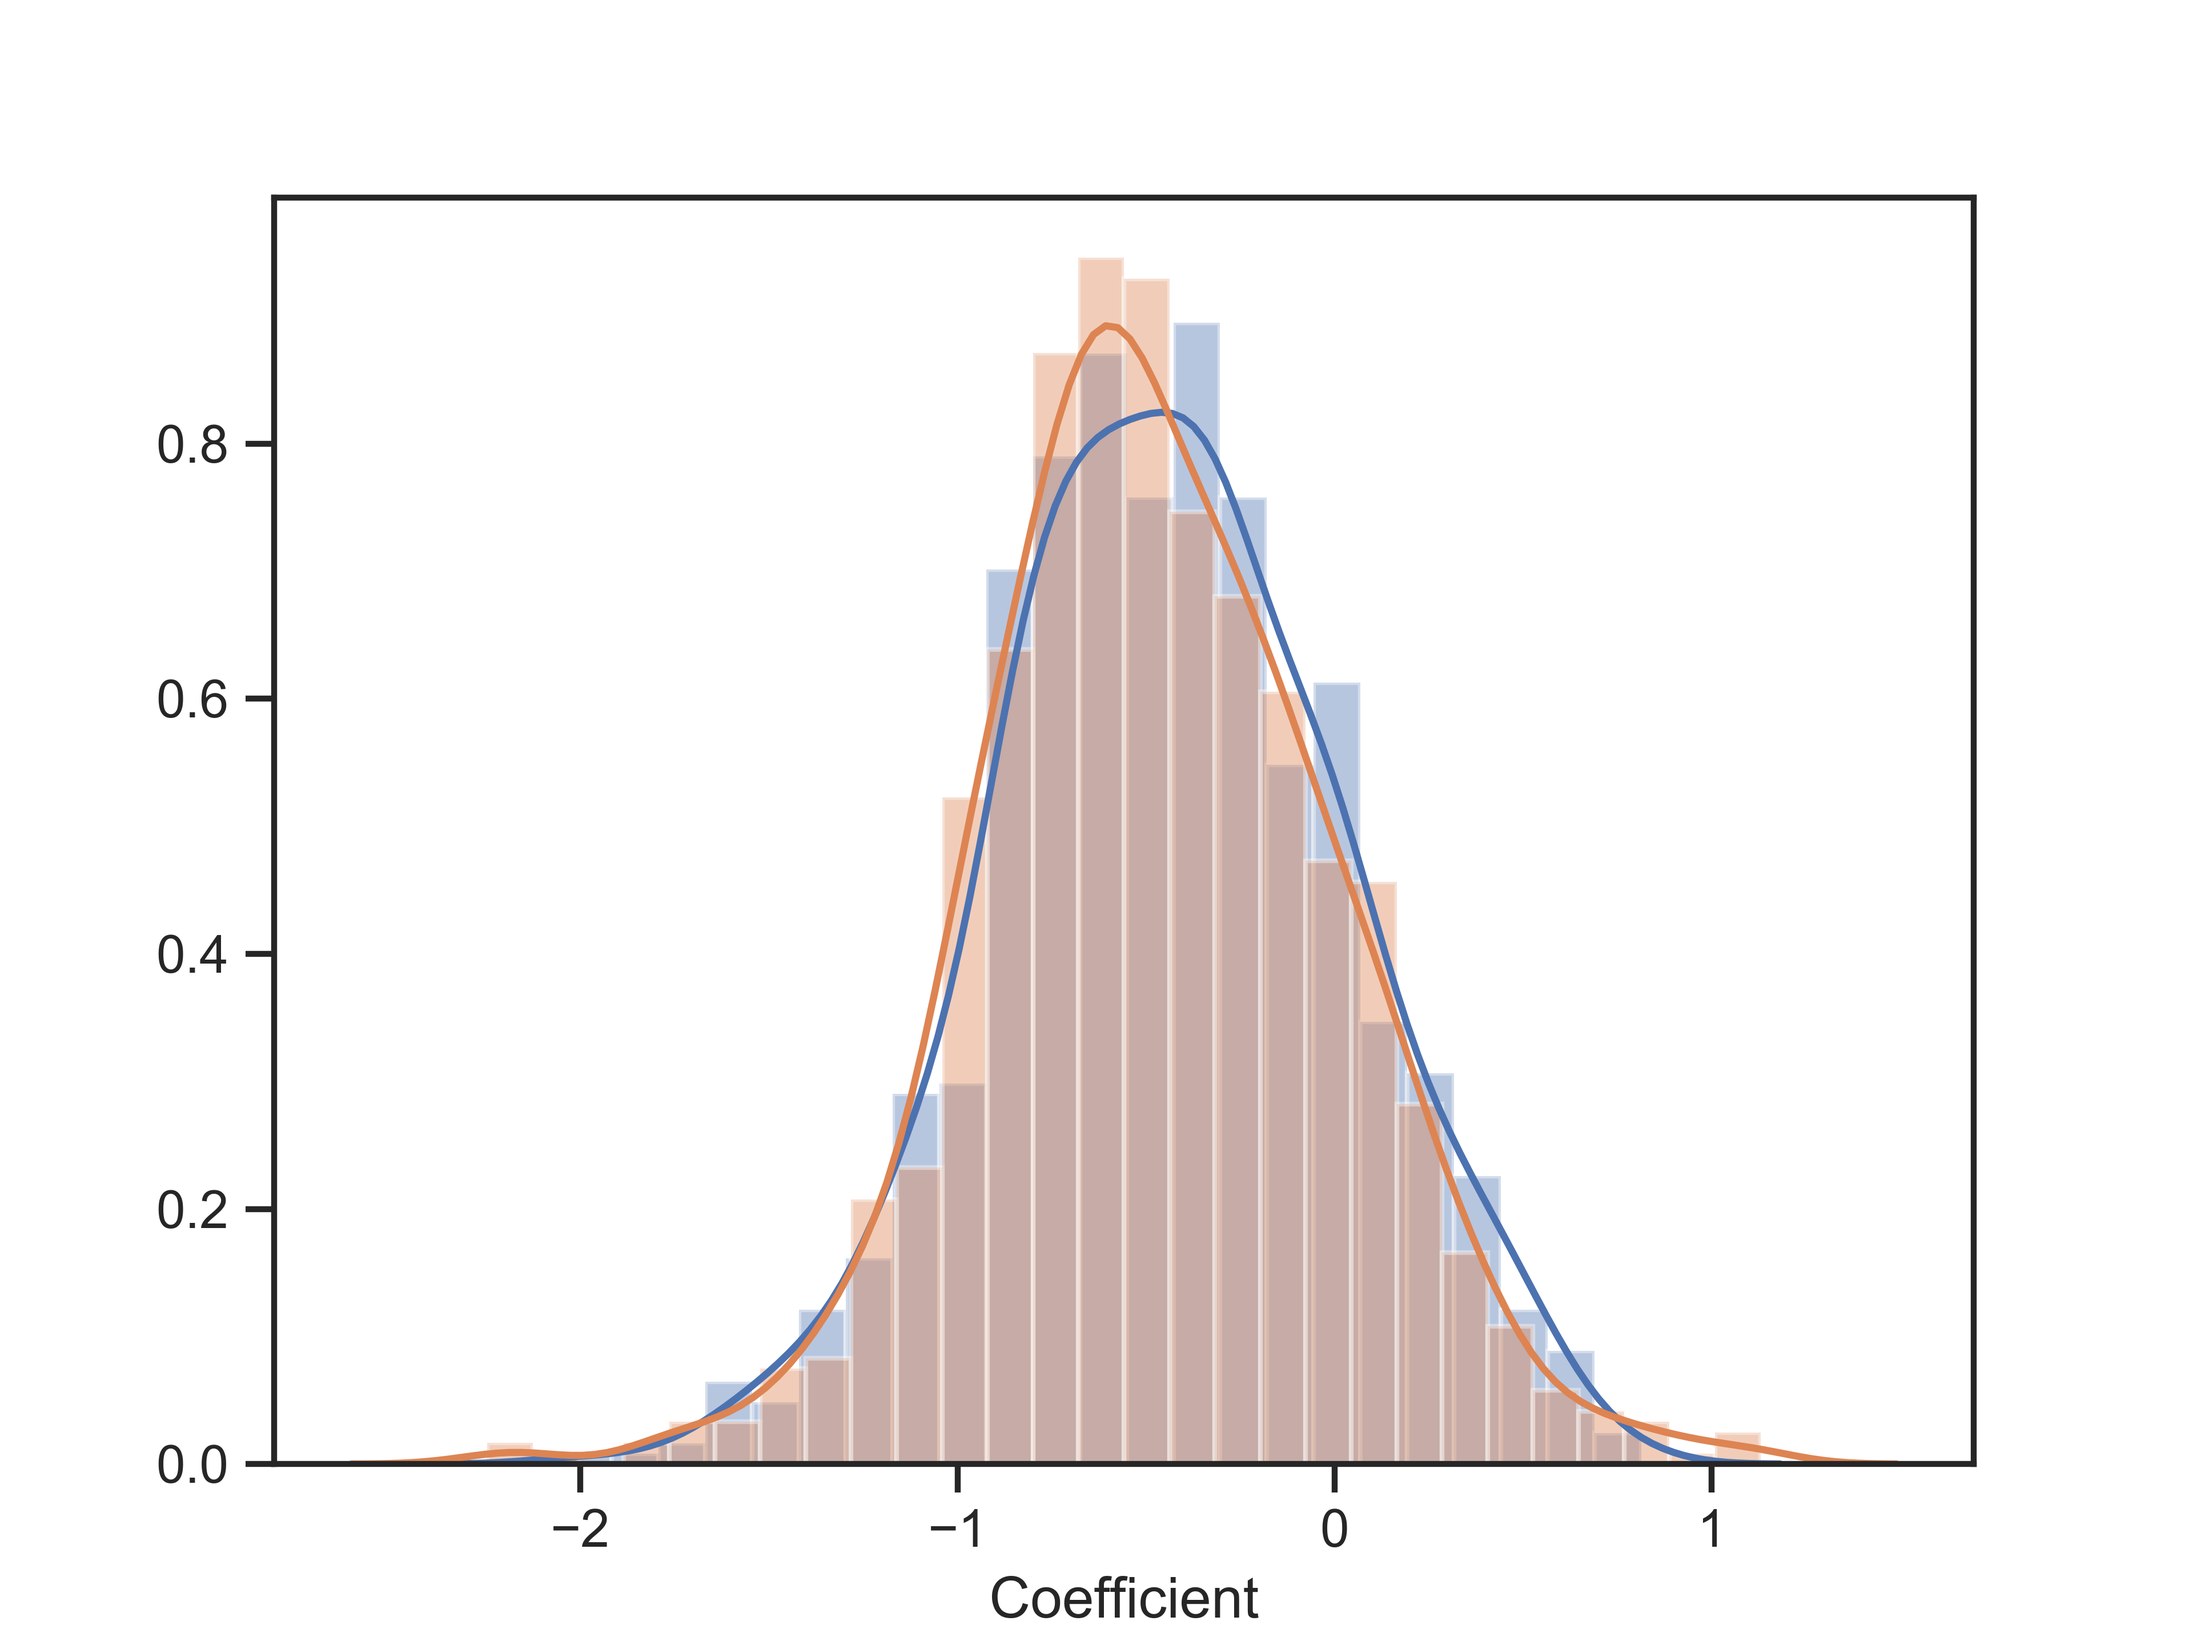
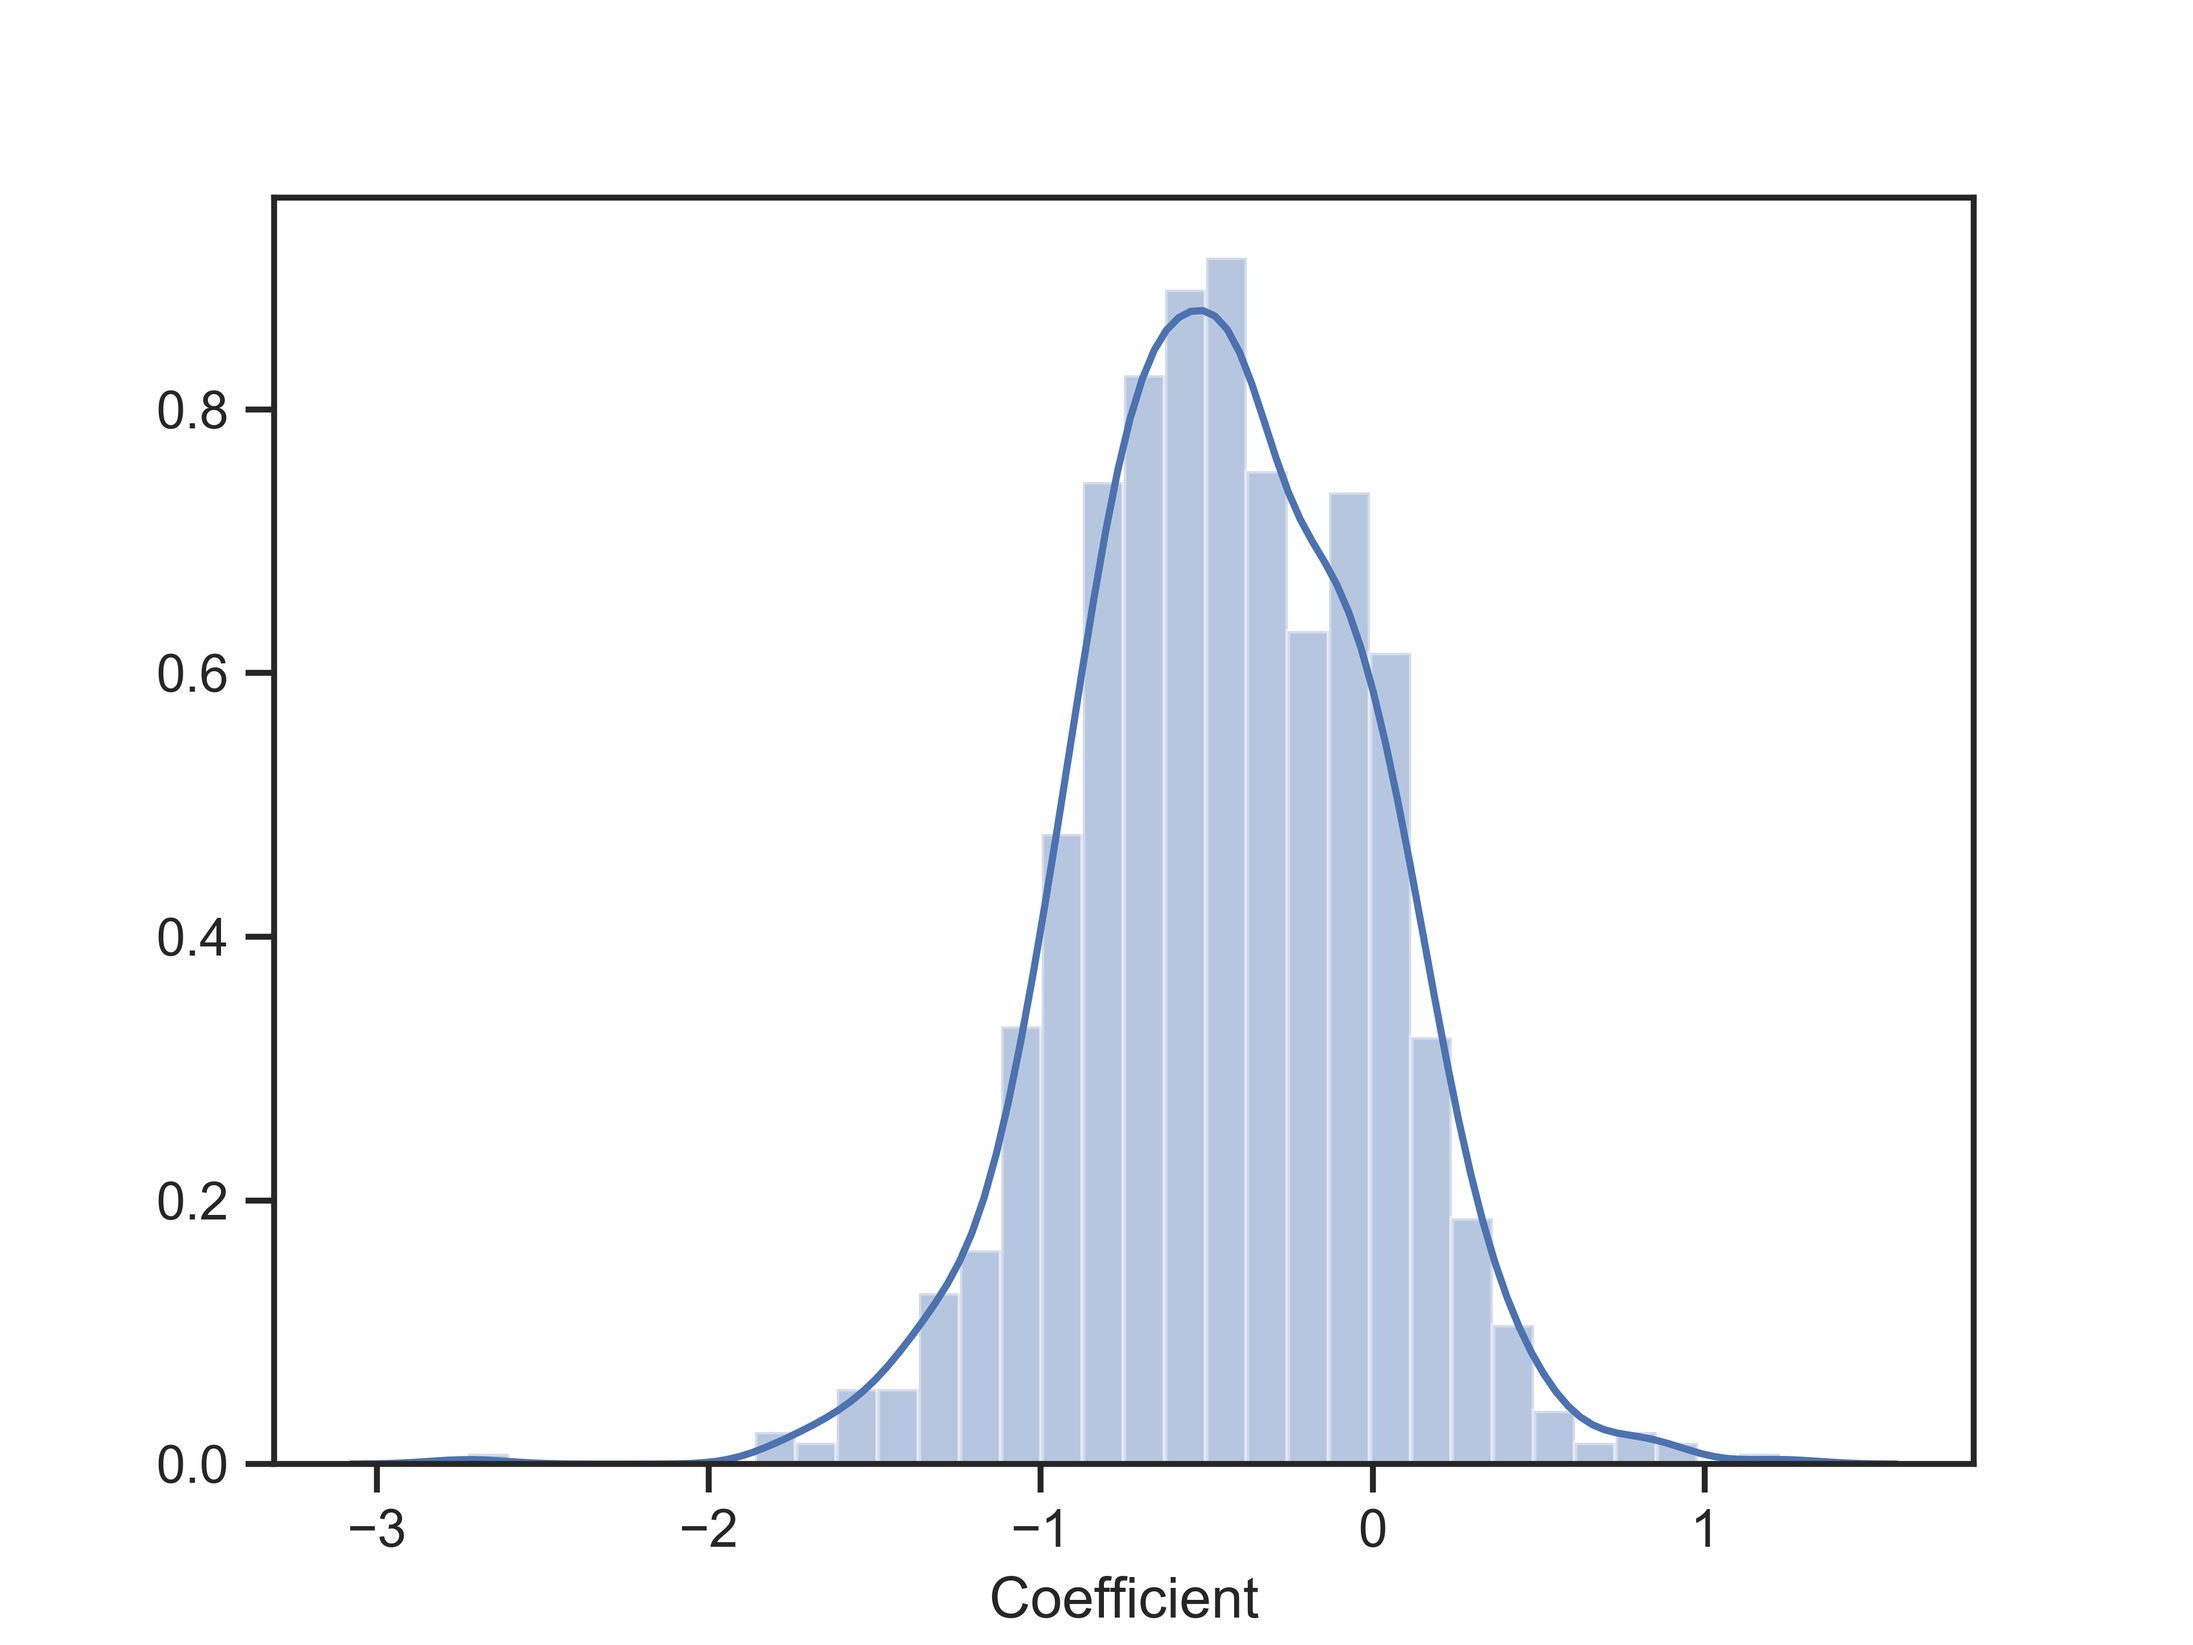
bootstrap histograms

diff --git a/analysis/monitain_stats.py b/analysis/monitain_stats.py
@@ -18,8 +18,8 @@ import seaborn as sea
 import matplotlib.pyplot as plt
 import math
 
-import bootstrapped.bootstrap as baseline
-import bootstrapped.stats_functions as bs_stats
+#import bootstrapped.bootstrap as baseline
+#import bootstrapped.stats_functions as bs_stats
 
 ## Set paths for where files will be opened from or saved
 PATH = os.path.expanduser('~')
@@ -146,24 +146,26 @@ pg.logistic_regression(X, y, remove_na=True)
 ############
 
 # dfs of alllll trials by block type
-maintain_all = all_df[(all_df['blockType'] == 'Maintain')]
+maintain_all = all_df_byTrial[(all_df_byTrial['blockType'] == 'Maintain')]
 maintain_all = maintain_all.drop(columns=['block'])
 
-monitor_all = all_df[(all_df['blockType'] == 'Monitor')]
+monitor_all = all_df_byTrial[(all_df_byTrial['blockType'] == 'Monitor')]
 monitor_all = monitor_all.drop(columns=['block'])
 
-mnm_all = all_df[(all_df['blockType'] == 'MnM')]
+mnm_all = all_df_byTrial[(all_df_byTrial['blockType'] == 'MnM')]
 mnm_all = mnm_all.drop(columns=['block'])
 
+cost_columns_drop = ['blockType', 'pm_acc', 'meanTrial_rt','og_acc', 'pm_probe_rt']
+acc_columns_drop = ['blockType','pm_cost', 'meanTrial_rt','og_acc', 'pm_probe_rt']
 
-maintain_cost_all = maintain_all.drop(columns=['blockType', 'pm_acc', 'meanTrial_rt','og_acc', 'pm_probe_rt'], axis=1).reset_index(drop=True)
-maintain_acc_all = maintain_all.drop(columns=['pm_cost', 'meanTrial_rt','og_acc', 'pm_probe_rt'], axis=1).reset_index(drop=True)
+maintain_cost_all = maintain_all.drop(columns=cost_columns_drop, axis=1).reset_index(drop=True)
+maintain_acc_all = maintain_all.drop(columns=acc_columns_drop, axis=1).reset_index(drop=True)
 
-monitor_cost_all = monitor_all.drop(columns=['blockType', 'pm_acc', 'meanTrial_rt','og_acc', 'pm_probe_rt'], axis=1).reset_index(drop=True)
-monitor_acc_all = monitor_all.drop(columns=['pm_cost', 'meanTrial_rt','og_acc', 'pm_probe_rt'], axis=1).reset_index(drop=True)
+monitor_cost_all = monitor_all.drop(columns=cost_columns_drop, axis=1).reset_index(drop=True)
+monitor_acc_all = monitor_all.drop(columns=acc_columns_drop, axis=1).reset_index(drop=True)
 
-mnm_cost_all = mnm_all.drop(columns=['blockType', 'pm_acc', 'meanTrial_rt','og_acc', 'pm_probe_rt'], axis=1).reset_index(drop=True)
-mnm_acc_all = mnm_all.drop(columns=['pm_cost', 'meanTrial_rt','og_acc', 'pm_probe_rt'], axis=1).reset_index(drop=True)
+mnm_cost_all = mnm_all.drop(columns=cost_columns_drop, axis=1).reset_index(drop=True)
+mnm_acc_all = mnm_all.drop(columns=acc_columns_drop, axis=1).reset_index(drop=True)
 
 
 
@@ -174,34 +176,102 @@ def matchingSubjs(df1, df2):
 		if df1.loc[row].subj != df2.loc[row].subj:
 			print("the subjects do not match up in the two dataframes")
 	df2_drop = df2.drop(columns = ['subj'])
-	return df2_drop
+	return df2_drop	
 
-		
-
+# 2s added because subj eliminated after running through maintainSubjs in second df
+# want to keep that to double check s01 is combined with s01 and so on
 # Maintain cost, maintain accuracy
-maintain_acc_all = matchingSubjs(maintain_cost_all, maintain_acc_all)
-maintainCost_maintainAcc_all = pd.concat([maintain_cost_all, maintain_acc_all], axis = 1)
-maintainCost_maintainAcc_all = maintainCost_maintainAcc_all.drop(columns='blockType')
+maintain_acc_all2 = matchingSubjs(maintain_cost_all, maintain_acc_all)
+maintainCost_maintainAcc_all = pd.concat([maintain_cost_all, maintain_acc_all2], axis = 1)
 
 # Monitor cost, monitor accuracy
-monitor_acc_all = matchingSubjs(monitor_cost_all, monitor_acc_all)
-monitorCost_monitorAcc_all = pd.concat([monitor_cost_all, monitor_acc_all], axis = 1)
-monitorCost_monitorAcc_all = monitorCost_monitorAcc_all.drop(columns='blockType')
+monitor_acc_all2 = matchingSubjs(monitor_cost_all, monitor_acc_all)
+monitorCost_monitorAcc_all = pd.concat([monitor_cost_all, monitor_acc_all2], axis = 1)
 
 # MnM cost, MnM accuracy
-mnm_acc_all = matchingSubjs(mnm_cost_all, mnm_acc_all)
-mnmCost_mnmAcc_all = pd.concat([mnm_cost_all, mnm_acc_all], axis = 1)
-mnmCost_mnmAcc_all = mnmCost_mnmAcc_all.drop(columns='blockType')
+mnm_acc_all2 = matchingSubjs(mnm_cost_all, mnm_acc_all)
+mnmCost_mnmAcc_all = pd.concat([mnm_cost_all, mnm_acc_all2], axis = 1)
 
 # Maintain cost, MnM accuracy
-mnm_acc_all = matchingSubjs(maintain_cost_all, mnm_acc_all)
-maintainCost_mnmAcc_all = pd.concat([maintain_cost_all, mnm_acc_all], axis = 1)
-maintainCost_mnmAcc_all = maintainCost_mnmAcc_all.drop(columns='blockType')
+mnm_acc_all2 = matchingSubjs(maintain_cost_all, mnm_acc_all)
+maintainCost_mnmAcc_all = pd.concat([maintain_cost_all, mnm_acc_all2], axis = 1)
 
 # Monitor cost, MnM accuracy
-mnm_acc_all = matchingSubjs(monitor_cost_all, mnm_acc_all)
-monitorCost_mnmAcc_all = pd.concat([monitor_cost_all, mnm_acc_all], axis = 1)
-monitorCost_mnmAcc_all = monitorCost_mnmAcc_all.drop(columns='blockType')
+mnm_acc_all2 = matchingSubjs(monitor_cost_all, mnm_acc_all)
+monitorCost_mnmAcc_all = pd.concat([monitor_cost_all, mnm_acc_all2], axis = 1)
+
+
+
+
+
+
+
+
+# Array of all of the subjects
+subj_list = all_df_byTrial.subj.unique() 
+
+
+
+def bootstrapped(trial_df, subj_list, n_iterations, x, y, type):
+
+	trial_dict = dict()
+	for k, v in trial_df.groupby('subj'):
+		trial_dict[k] = v
+
+	# Create dictionary to store bootstrap results
+	boot_dict = dict()
+
+	for i in range(n_iterations):
+		# Create a new random subject list
+		resampled_subjList = np.random.choice(subj_list, size = len(subj_list), replace = True)
+
+		# Create a dictionary for the new resampled subject list
+		resampled_dict = dict()
+
+		# For each subject in new subject list, add all of their data
+		for subj in resampled_subjList: 
+			resampled_dict[subj] = trial_dict.get(subj)
+
+		resampled_df = pd.DataFrame()
+		# Merge all of the values from the dictionary together so there is one big dataframe of all new subject data
+		for key, value in trial_dict.items(): 
+			if value is None: 
+
+				print(key)
+		resampled_df = pd.concat(resampled_dict.values(), ignore_index = False) 
+
+		bootstrap_data = resampled_df.groupby(['subj']).mean()
+		bootstrap_lr = pg.linear_regression(bootstrap_data[x], bootstrap_data[y])
+		boot_dict[i] = bootstrap_lr
+
+	# Create df of linear regression results - include intercept and coefficient for each bootstrap iteration
+	betas = pd.DataFrame(columns = ['intercept', 'coef'])
+	for key in boot_dict: 
+		intercept = boot_dict.get(key).coef[0]
+		coef = boot_dict.get(key).coef[1]
+		betas.loc[key] = [intercept, coef]
+
+
+	# Plot betas	
+	sea.distplot(betas.coef) 
+	plt.xlabel('Coefficient')
+	plt.savefig(FIGURE_PATH + type + '_bootstrap.png', dpi = 600)
+	plt.close()
+
+	return betas;
+
+
+
+maintain_maintain_betas = bootstrapped(maintainCost_maintainAcc_all, subj_list, 1000, 'pm_cost', 'pm_acc', 'maintain_maintain')
+monitor_monitor_betas = bootstrapped(monitorCost_monitorAcc_all, subj_list, 1000, 'pm_cost', 'pm_acc', 'monitor_monitor')
+mnm_mnm_betas = bootstrapped(mnmCost_mnmAcc_all, subj_list, 1000, 'pm_cost', 'pm_acc', 'mnm_mnm')
+
+maintain_mnm_betas = bootstrapped(maintainCost_mnmAcc_all, subj_list, 1000, 'pm_cost', 'pm_acc', 'maintain_mnm')
+monitor_mnm_betas = bootstrapped(monitorCost_mnmAcc_all, subj_list, 1000, 'pm_cost', 'pm_acc', 'monitor_mnm')
+
+
+
+
 
 
 

diff --git a/analysis/bootstrapped.py b/analysis/bootstrapped.py
@@ -1,10 +1,10 @@
 
 # Array of all of the subjects
-subj_list = all_df.subj.unique() 
+subj_list = all_df_byTrial.subj.unique() 
 
 
 
-def bootstrapped(trial_df, subj_list, n_iterations, x, y, type):
+def bootstrapped(trial_df, subj_list, n_iterations, x, y, type, color):
 
 	trial_dict = dict()
 	for k, v in trial_df.groupby('subj'):
@@ -45,7 +45,7 @@ def bootstrapped(trial_df, subj_list, n_iterations, x, y, type):
 
 
 	# Plot betas	
-	sea.distplot(betas.coef) 
+	sea.distplot(betas.coef, color = color) 
 	plt.xlabel('Coefficient')
 	plt.savefig(FIGURE_PATH + type + '_bootstrap.png', dpi = 600)
 	plt.close()
@@ -54,9 +54,9 @@ def bootstrapped(trial_df, subj_list, n_iterations, x, y, type):
 
 
 
-maintain_maintain_betas = bootstrapped(maintainCost_maintainAcc_all, subj_list, 1000, 'pm_cost', 'pm_acc', 'maintain_maintain')
-monitor_monitor_betas = bootstrapped(monitorCost_monitorAcc_all, subj_list, 1000, 'pm_cost', 'pm_acc', 'monitor_monitor')
-mnm_mnm_betas = bootstrapped(mnmCost_mnmAcc_all, subj_list, 1000, 'pm_cost', 'pm_acc', 'mnm_mnm')
+maintain_maintain_betas = bootstrapped(maintainCost_maintainAcc_all, subj_list, 1000, 'pm_cost', 'pm_acc', 'maintain_maintain', 'b')
+monitor_monitor_betas = bootstrapped(monitorCost_monitorAcc_all, subj_list, 1000, 'pm_cost', 'pm_acc', 'monitor_monitor', 'r')
+mnm_mnm_betas = bootstrapped(mnmCost_mnmAcc_all, subj_list, 1000, 'pm_cost', 'pm_acc', 'mnm_mnm', 'purple')
 
-maintain_mnm_betas = bootstrapped(maintainCost_mnmAcc_all, subj_list, 1000, 'pm_cost', 'pm_acc', 'maintain_mnm')
-monitor_mnm_betas = bootstrapped(monitorCost_mnmAcc_all, subj_list, 1000, 'pm_cost', 'pm_acc', 'monitor_mnm')
+maintain_mnm_betas = bootstrapped(maintainCost_mnmAcc_all, subj_list, 1000, 'pm_cost', 'pm_acc', 'maintain_mnm', 'b')
+monitor_mnm_betas = bootstrapped(monitorCost_mnmAcc_all, subj_list, 1000, 'pm_cost', 'pm_acc', 'monitor_mnm', 'r')
